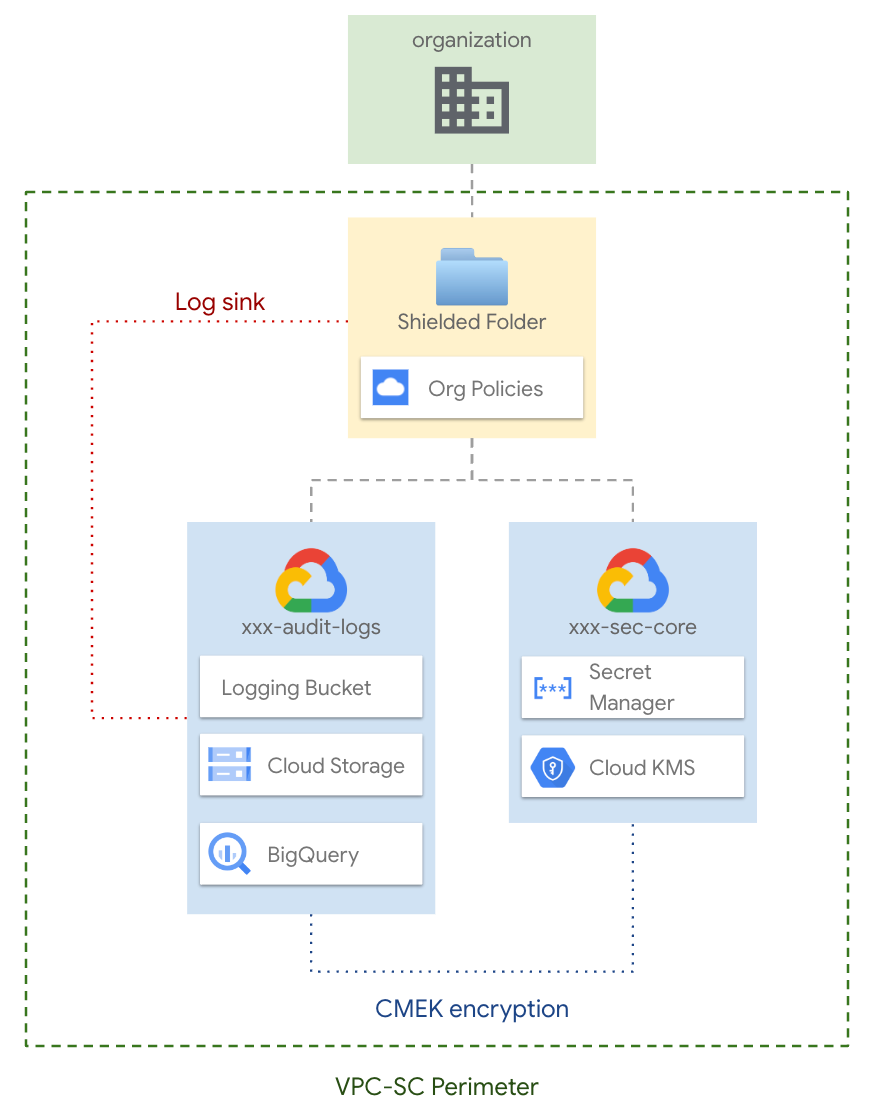
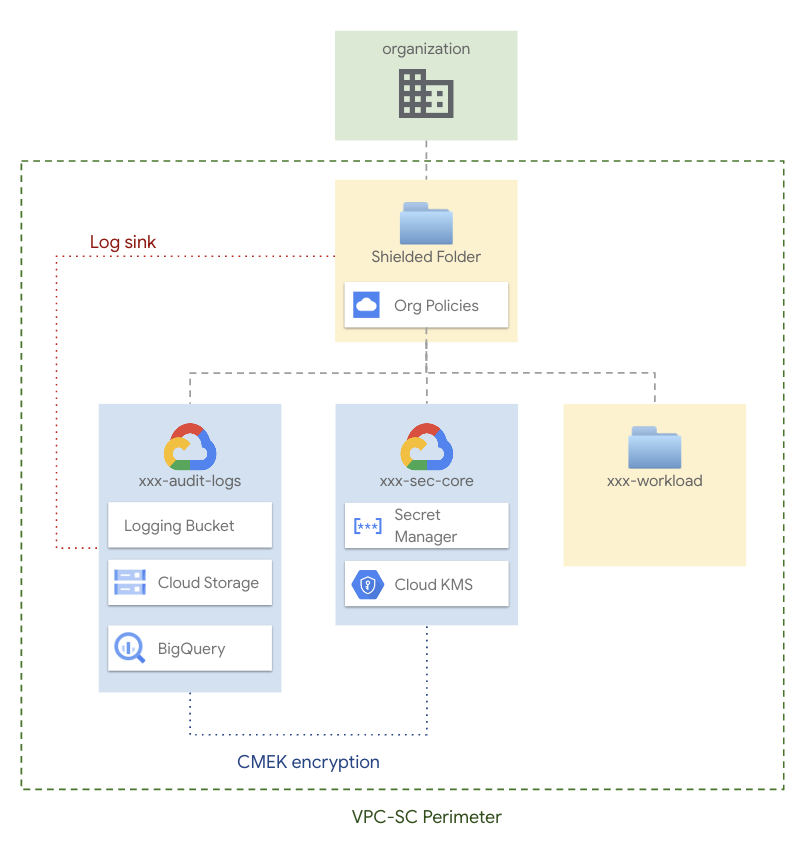
Chane feature name, improve README

diff --git a/blueprints/data-solutions/shielded-folder/README.md b/blueprints/data-solutions/shielded-folder/README.md
@@ -1,6 +1,6 @@
 # Shielded folder
 
-This blueprint implements an opinionated Folder configuration to implement GCP best practices. Configurations implemented on the folder would be beneficial to host Workloads hineriting contrains from the folder they belong to.
+This blueprint implements an opinionated Folder configuration to implement GCP best practices. Configurations implemented on the folder would be beneficial to host Workloads inheriting constraints from the folder they belong to.
 
 In this blueprint, a folder will be created implementing the following features:
 - Organizational policies
@@ -8,7 +8,7 @@ In this blueprint, a folder will be created implementing the following features:
 - Cloud KMS
 - VPC-SC
 
-Within the folder the following projects will be created:
+Within the folder, the following projects will be created:
 - 'audit-logs' where Audit Logs sink will be created
 - 'sec-core' where Cloud KMS and Cloud Secret manager will be configured
 
@@ -31,32 +31,32 @@ The approach adapts to different high-level requirements:
 ## Project structure
 The Shielded Folder blueprint is designed to rely on several projects:
 - `audit-log`: to host Audit logging buckets and Audit log sync to GCS, BigQuery or PubSub
-- `sec-core`: to host security related resources such as Cloud KMS and Cloud Secrets Manager
+- `sec-core`: to host security-related resources such as Cloud KMS and Cloud Secrets Manager
 
 This separation into projects allows adhering to the least-privilege principle by using project-level roles.
 
 ## User groups
-User groups provide a stable frame of reference that allows decoupling the final set of permissions from the stage where entities and resources are created, and their IAM bindings defined.
+User groups provide a stable frame of reference that allows decoupling the final set of permissions from the stage where entities and resources are created, and their IAM bindings are defined.
 
 We use three groups to control access to resources:
-- `data-engineers`: They handle and run workloads on the `wokload` subfolder. They have owner access to all resources in the `workload` folder in order to troubleshoot possible issues with pipelines. This team can also impersonate any service account.
+- `data-engineers`: They handle and run workloads on the `workload` subfolder. They have owner access to all resources in the `workload` folder in order to troubleshoot possible issues with pipelines. This team can also impersonate any service account.
 - `data-security`: They handle security configurations for the shielded folder. They have owner access to the `audit-log` and `sec-core` projects.
 
 ## Encryption
-The blueprint support the configuration of an instance of Cloud KMS to handle encryption on the resources. The encryption is disabled by default, but you can enble it configuring the `enable_features.kms` variable.
+The blueprint supports the configuration of an instance of Cloud KMS to handle encryption on the resources. The encryption is disabled by default, but you can enable it by configuring the `enable_features.encryption` variable.
 
-The script will create keys to encrypt log sink bucket/dataset/topic in the specified regions. Configuring the `kms_keys` variable, you can create additional KMS keys needed by your workload.
+The script will create keys to encrypt log sink buckets/datasets/topics in the specified regions. Configuring the `kms_keys` variable, you can create additional KMS keys needed by your workload.
 
 ## Customizations
 
 ### VPC Service Control
-VPC Service Control is configured to have a Perimeter containing all projects within the folder. Additional projects you may add to the folder won't be automatically added to perimeter, a new Terraform apply is needed to add the project to the perimeter.
+VPC Service Control is configured to have a Perimeter containing all projects within the folder. Additional projects you may add to the folder won't be automatically added to the perimeter, and a new `terraform apply` is needed to add the project to the perimeter.
 
 The VPC SC configuration is set to dry-run mode, but switching to enforced mode is a simple operation involving modifying a few lines of code highlighted by ad-hoc comments.
 
-Access level rules are not defined, before moving the configuration to enforced mode, be sure to configure an access policy to be able to continue to access resources from outside of the perimeter. 
+Access level rules are not defined. Before moving the configuration to enforced mode, configure access policies to continue accessing resources from outside of the perimeter. 
 
-An access level based on the network range you are using to reach the console (eg. Proxy IP, Internet connection, ...) is suggested. Example:
+An access level based on the network range you are using to reach the console (e.g. Proxy IP, Internet connection, ...) is suggested. Example:
 
 ```
 vpc_sc_access_levels = {
@@ -68,7 +68,7 @@ vpc_sc_access_levels = {
 }
 ```
 
-Alternatevelly you can configure an access level based on the identity that need to reach resources from outside the perimeter.
+Alternatively, you can configure an access level based on the identity that needs to reach resources from outside the perimeter.
 
 ```
 vpc_sc_access_levels = {
@@ -81,7 +81,7 @@ vpc_sc_access_levels = {
 ```
 
 ## How to run this script
-To deploy this blueprint on your GCP organization, you will need
+To deploy this blueprint in your GCP organization, you will need
 - a folder or organization where resources will be created
 - a billing account that will be associated with the new projects
 
@@ -122,7 +122,7 @@ terraform apply
 | [access_policy](variables.tf#L17) | Access Policy name, set to null if creating one. | <code>string</code> |  | <code>null</code> |
 | [access_policy_create](variables.tf#L23) | Access Policy configuration, fill in to create. Parent is in 'organizations/123456' format. | <code title="object&#40;&#123;&#10;  parent &#61; string&#10;  title  &#61; string&#10;  scopes &#61; optional&#40;list&#40;string&#41;&#41;&#10;&#125;&#41;">object&#40;&#123;&#8230;&#125;&#41;</code> |  | <code>null</code> |
 | [data_dir](variables.tf#L33) | Relative path for the folder storing configuration data. | <code>string</code> |  | <code>&#34;data&#34;</code> |
-| [enable_features](variables.tf#L39) | Flag to enable features on the solution. | <code title="object&#40;&#123;&#10;  kms      &#61; bool&#10;  log_sink &#61; bool&#10;  vpc_sc   &#61; bool&#10;&#125;&#41;">object&#40;&#123;&#8230;&#125;&#41;</code> |  | <code title="&#123;&#10;  kms      &#61; false&#10;  log_sink &#61; true&#10;  vpc_sc   &#61; true&#10;&#125;">&#123;&#8230;&#125;</code> |
+| [enable_features](variables.tf#L39) | Flag to enable features on the solution. | <code title="object&#40;&#123;&#10;  encryption &#61; bool&#10;  log_sink   &#61; bool&#10;  vpc_sc     &#61; bool&#10;&#125;&#41;">object&#40;&#123;&#8230;&#125;&#41;</code> |  | <code title="&#123;&#10;  encryption &#61; false&#10;  log_sink   &#61; true&#10;  vpc_sc     &#61; true&#10;&#125;">&#123;&#8230;&#125;</code> |
 | [folder_create](variables.tf#L52) | Provide values if folder creation is needed, uses existing folder if null. Parent is in 'folders/nnn' or 'organizations/nnn' format. | <code title="object&#40;&#123;&#10;  display_name &#61; string&#10;  parent       &#61; string&#10;&#125;&#41;">object&#40;&#123;&#8230;&#125;&#41;</code> |  | <code>null</code> |
 | [folder_id](variables.tf#L61) | Folder ID in case you use folder_create=null. | <code>string</code> |  | <code>null</code> |
 | [groups](variables.tf#L67) | User groups. | <code>map&#40;string&#41;</code> |  | <code title="&#123;&#10;  data-engineers &#61; &#34;gcp-data-engineers&#34;&#10;  data-security  &#61; &#34;gcp-data-security&#34;&#10;&#125;">&#123;&#8230;&#125;</code> |
@@ -130,9 +130,16 @@ terraform apply
 | [log_locations](variables.tf#L88) | Optional locations for GCS, BigQuery, and logging buckets created here. | <code title="object&#40;&#123;&#10;  bq      &#61; optional&#40;string, &#34;europe&#34;&#41;&#10;  storage &#61; optional&#40;string, &#34;europe&#34;&#41;&#10;  logging &#61; optional&#40;string, &#34;global&#34;&#41;&#10;  pubsub  &#61; optional&#40;string, &#34;global&#34;&#41;&#10;&#125;&#41;">object&#40;&#123;&#8230;&#125;&#41;</code> |  | <code title="&#123;&#10;  bq      &#61; &#34;europe&#34;&#10;  storage &#61; &#34;europe&#34;&#10;  logging &#61; &#34;global&#34;&#10;  pubsub  &#61; null&#10;&#125;">&#123;&#8230;&#125;</code> |
 | [log_sinks](variables.tf#L105) | Org-level log sinks, in name => {type, filter} format. | <code title="map&#40;object&#40;&#123;&#10;  filter &#61; string&#10;  type   &#61; string&#10;&#125;&#41;&#41;">map&#40;object&#40;&#123;&#8230;&#125;&#41;&#41;</code> |  | <code title="&#123;&#10;  audit-logs &#61; &#123;&#10;    filter &#61; &#34;logName:&#92;&#34;&#47;logs&#47;cloudaudit.googleapis.com&#37;2Factivity&#92;&#34; OR logName:&#92;&#34;&#47;logs&#47;cloudaudit.googleapis.com&#37;2Fsystem_event&#92;&#34;&#34;&#10;    type   &#61; &#34;bigquery&#34;&#10;  &#125;&#10;  vpc-sc &#61; &#123;&#10;    filter &#61; &#34;protoPayload.metadata.&#64;type&#61;&#92;&#34;type.googleapis.com&#47;google.cloud.audit.VpcServiceControlAuditMetadata&#92;&#34;&#34;&#10;    type   &#61; &#34;bigquery&#34;&#10;  &#125;&#10;&#125;">&#123;&#8230;&#125;</code> |
 | [projects_create](variables.tf#L148) | Provide values if projects creation is needed, uses existing project if null. Projects will be created in the shielded folder. | <code title="object&#40;&#123;&#10;  billing_account_id &#61; string&#10;&#125;&#41;">object&#40;&#123;&#8230;&#125;&#41;</code> |  | <code>null</code> |
-| [projects_id](variables.tf#L156) | Project id, references existing projects if `project_create` is null. Projects will be moved into the shielded folder. | <code title="object&#40;&#123;&#10;  sec-core   &#61; string&#10;  audit-logs &#61; string&#10;&#125;&#41;">object&#40;&#123;&#8230;&#125;&#41;</code> |  | <code>null</code> |
+| [projects_id](variables.tf#L156) | Project id, references existing projects if `projects_create` is null. Projects will be moved into the shielded folder. | <code title="object&#40;&#123;&#10;  sec-core   &#61; string&#10;  audit-logs &#61; string&#10;&#125;&#41;">object&#40;&#123;&#8230;&#125;&#41;</code> |  | <code>null</code> |
 | [vpc_sc_access_levels](variables.tf#L165) | VPC SC access level definitions. | <code title="map&#40;object&#40;&#123;&#10;  combining_function &#61; optional&#40;string&#41;&#10;  conditions &#61; optional&#40;list&#40;object&#40;&#123;&#10;    device_policy &#61; optional&#40;object&#40;&#123;&#10;      allowed_device_management_levels &#61; optional&#40;list&#40;string&#41;&#41;&#10;      allowed_encryption_statuses      &#61; optional&#40;list&#40;string&#41;&#41;&#10;      require_admin_approval           &#61; bool&#10;      require_corp_owned               &#61; bool&#10;      require_screen_lock              &#61; optional&#40;bool&#41;&#10;      os_constraints &#61; optional&#40;list&#40;object&#40;&#123;&#10;        os_type                    &#61; string&#10;        minimum_version            &#61; optional&#40;string&#41;&#10;        require_verified_chrome_os &#61; optional&#40;bool&#41;&#10;      &#125;&#41;&#41;&#41;&#10;    &#125;&#41;&#41;&#10;    ip_subnetworks         &#61; optional&#40;list&#40;string&#41;, &#91;&#93;&#41;&#10;    members                &#61; optional&#40;list&#40;string&#41;, &#91;&#93;&#41;&#10;    negate                 &#61; optional&#40;bool&#41;&#10;    regions                &#61; optional&#40;list&#40;string&#41;, &#91;&#93;&#41;&#10;    required_access_levels &#61; optional&#40;list&#40;string&#41;, &#91;&#93;&#41;&#10;  &#125;&#41;&#41;, &#91;&#93;&#41;&#10;  description &#61; optional&#40;string&#41;&#10;&#125;&#41;&#41;">map&#40;object&#40;&#123;&#8230;&#125;&#41;&#41;</code> |  | <code>&#123;&#125;</code> |
 | [vpc_sc_egress_policies](variables.tf#L194) | VPC SC egress policy defnitions. | <code title="map&#40;object&#40;&#123;&#10;  from &#61; object&#40;&#123;&#10;    identity_type &#61; optional&#40;string, &#34;ANY_IDENTITY&#34;&#41;&#10;    identities    &#61; optional&#40;list&#40;string&#41;&#41;&#10;  &#125;&#41;&#10;  to &#61; object&#40;&#123;&#10;    operations &#61; optional&#40;list&#40;object&#40;&#123;&#10;      method_selectors &#61; optional&#40;list&#40;string&#41;&#41;&#10;      service_name     &#61; string&#10;    &#125;&#41;&#41;, &#91;&#93;&#41;&#10;    resources              &#61; optional&#40;list&#40;string&#41;&#41;&#10;    resource_type_external &#61; optional&#40;bool, false&#41;&#10;  &#125;&#41;&#10;&#125;&#41;&#41;">map&#40;object&#40;&#123;&#8230;&#125;&#41;&#41;</code> |  | <code>&#123;&#125;</code> |
 | [vpc_sc_ingress_policies](variables.tf#L214) | VPC SC ingress policy defnitions. | <code title="map&#40;object&#40;&#123;&#10;  from &#61; object&#40;&#123;&#10;    access_levels &#61; optional&#40;list&#40;string&#41;, &#91;&#93;&#41;&#10;    identity_type &#61; optional&#40;string&#41;&#10;    identities    &#61; optional&#40;list&#40;string&#41;&#41;&#10;    resources     &#61; optional&#40;list&#40;string&#41;, &#91;&#93;&#41;&#10;  &#125;&#41;&#10;  to &#61; object&#40;&#123;&#10;    operations &#61; optional&#40;list&#40;object&#40;&#123;&#10;      method_selectors &#61; optional&#40;list&#40;string&#41;&#41;&#10;      service_name     &#61; string&#10;    &#125;&#41;&#41;, &#91;&#93;&#41;&#10;    resources &#61; optional&#40;list&#40;string&#41;&#41;&#10;  &#125;&#41;&#10;&#125;&#41;&#41;">map&#40;object&#40;&#123;&#8230;&#125;&#41;&#41;</code> |  | <code>&#123;&#125;</code> |
+
+## Outputs
+
+| name | description | sensitive |
+|---|---|:---:|
+| [folders](outputs.tf#L15) | Folders id. |  |
+| [folders_sink_writer_identities](outputs.tf#L23) | Folders id. |  |
 
 <!-- END TFDOC -->